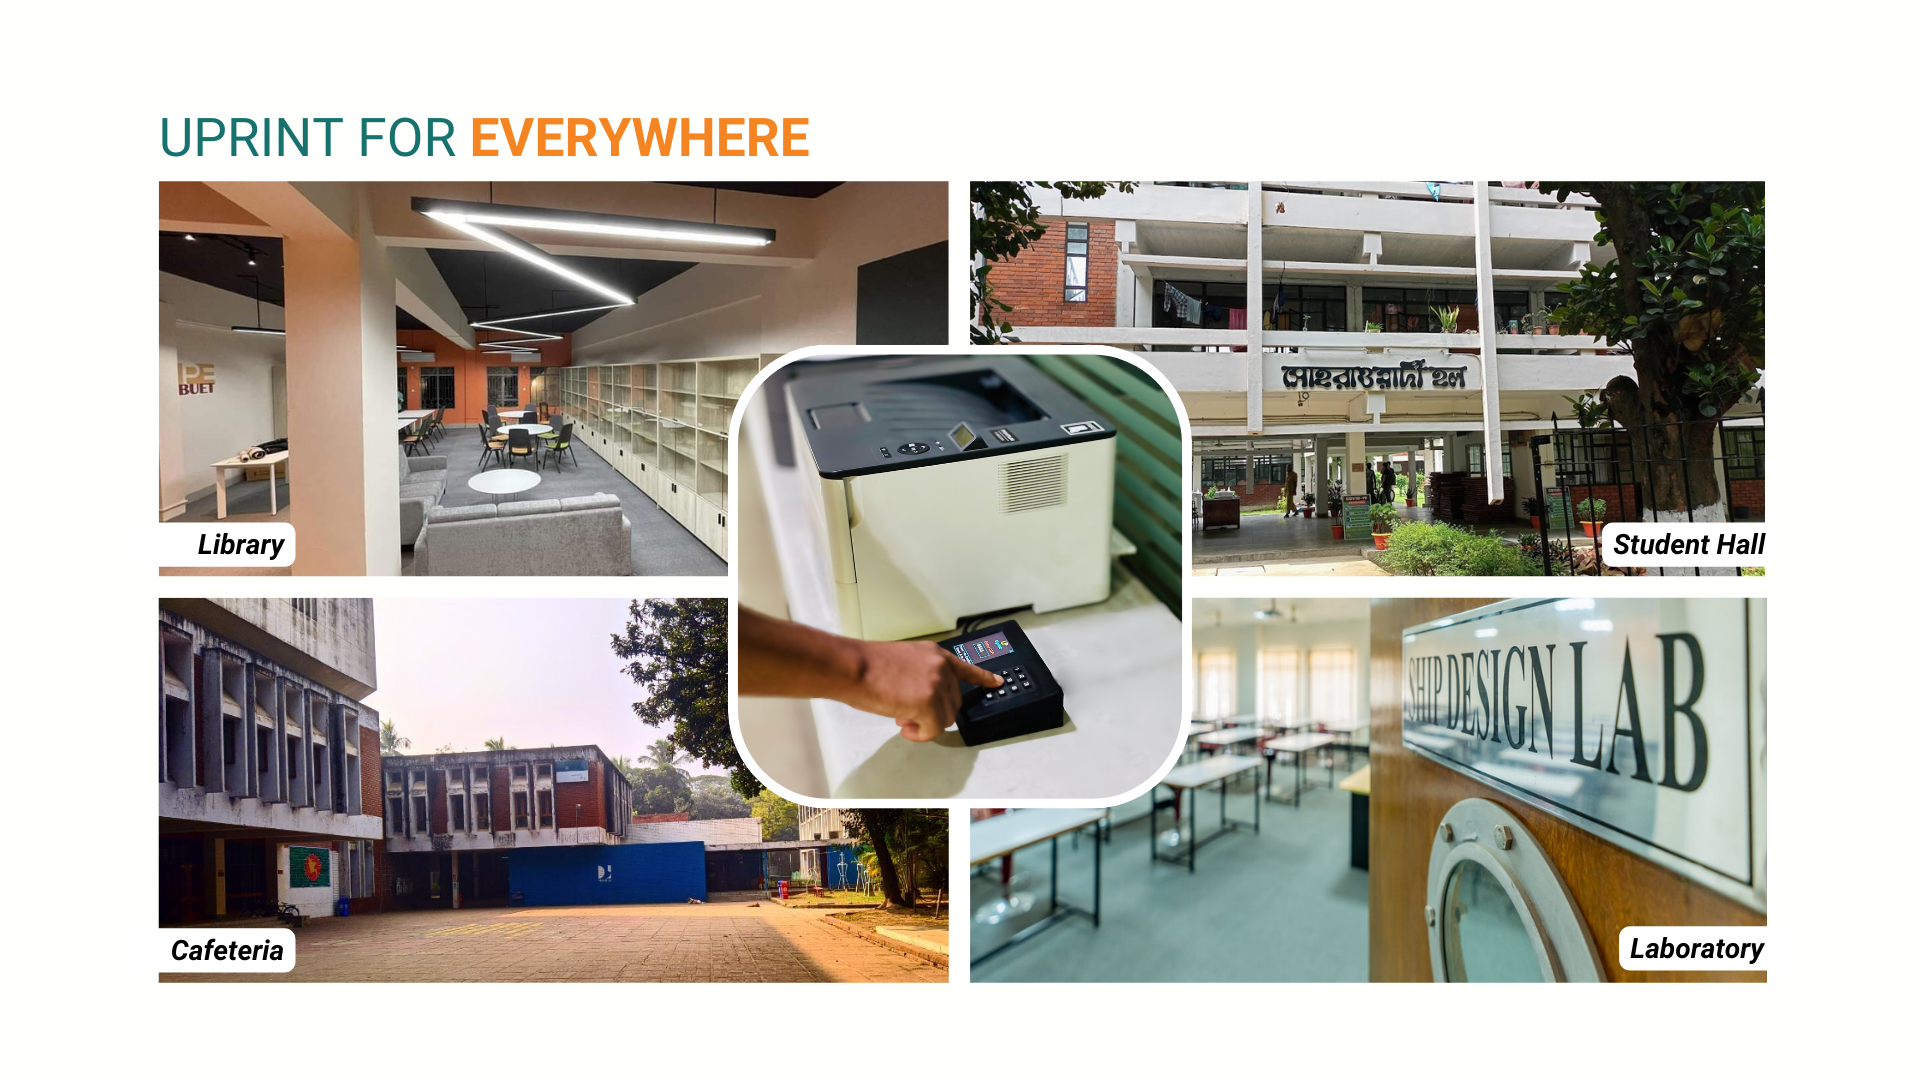
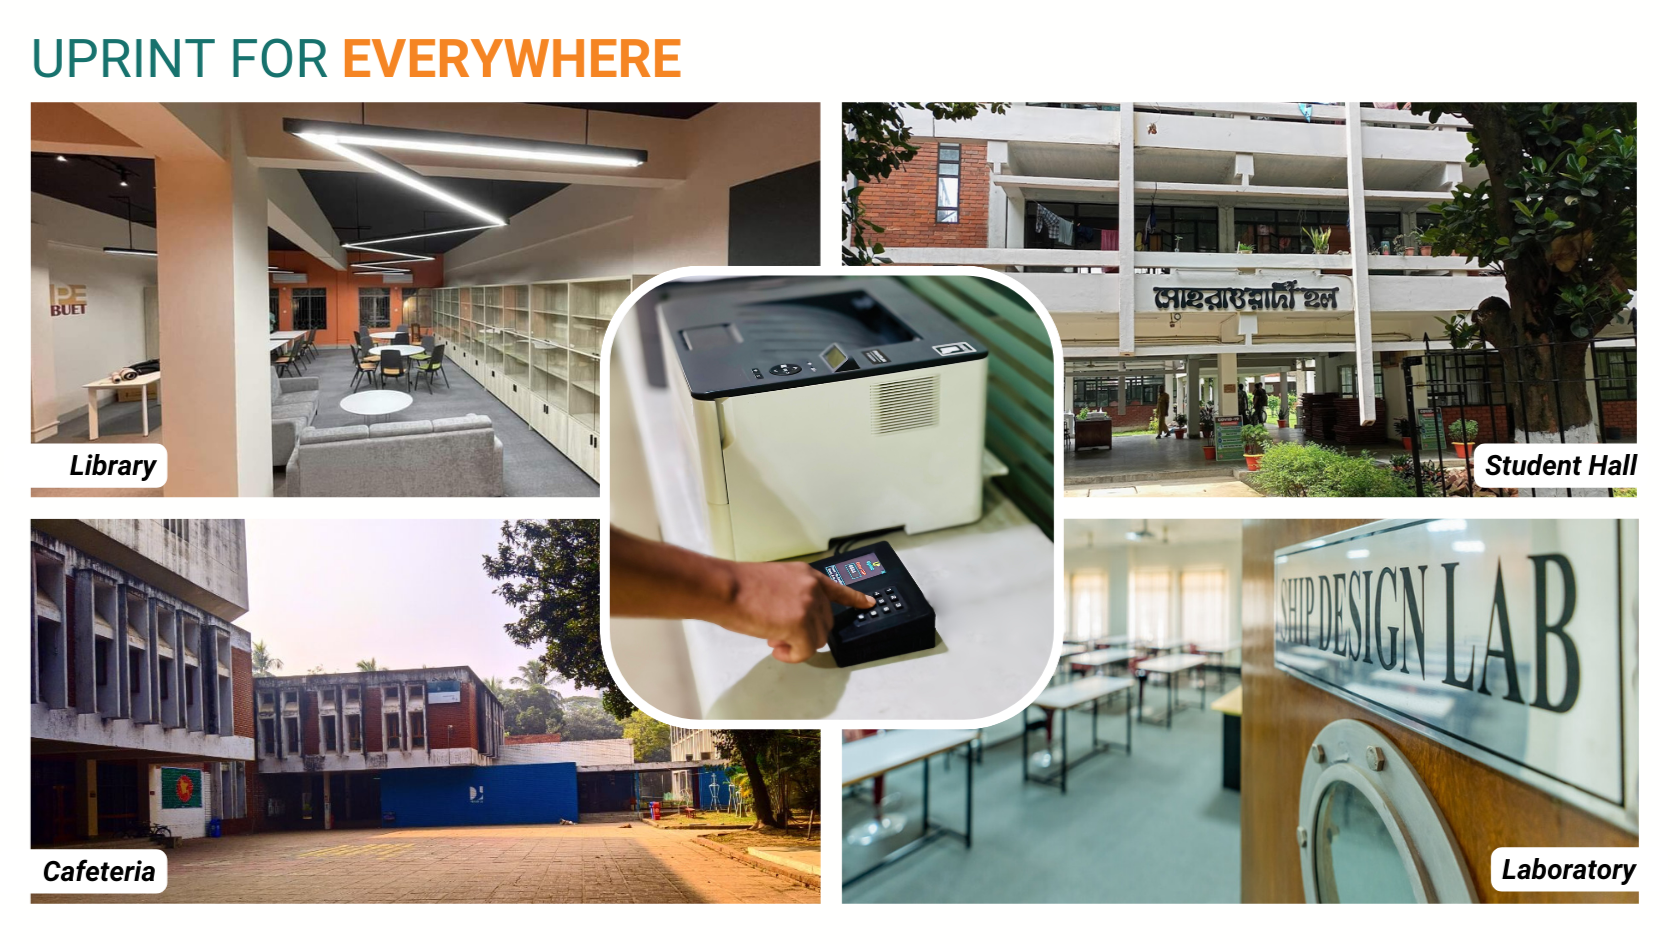
uprint everywhere design modified

diff --git a/index.html b/index.html
@@ -271,7 +271,7 @@
 
         <!-- Uprint Everywhere Section -->
         <section class="container segment-section">
-            <img class="img-fluid border" src="images/uprint-everywhere.png" alt="">
+            <img class="img-fluid border shadow-lg mb-5 bg-white rounded" src="images/uprint-everywhere.png" alt="">
         </section>
         <!-- Uprint Everywhere Section -->
     </main>
